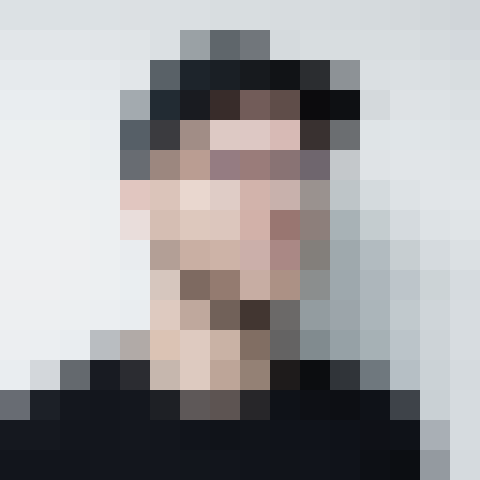
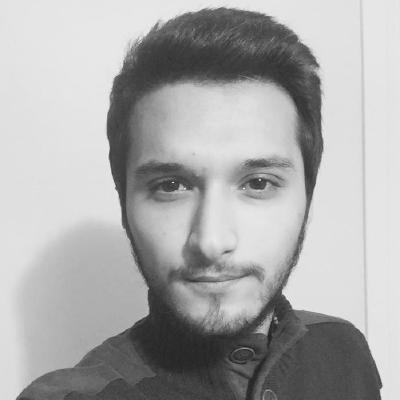
fourth commit

diff --git a/index.html b/index.html
@@ -76,9 +76,9 @@
                   Team
                 </a>
               </li>
-              <li class="nav-item">
+              <li class="nav-item d-none">
                 <a class="nav-link" href="#portfolios">
-                  Works
+                  Portfolio
                 </a>
               </li>
               <li class="nav-item">
@@ -150,7 +150,7 @@
                 <div class="icon">
                   <i class="lni-microphone"></i>
                 </div>
-                <div class="feature-content text-uppercase">
+                <div class="feature-content">
                   <h3>WHAT WE DO?</h3>
                   <p>
                     We are mainly focused on Web and Mobile projects. Also, we
@@ -373,7 +373,7 @@
               <div class="team-img">
                 <img
                   class="img-fluid"
-                  src="assets/img/team/team-01.png"
+                  src="assets/img/team/team-03.jpg"
                   alt=""
                 />
                 <div class="team-overlay">
@@ -488,7 +488,7 @@
     </div>
 
     <!-- Portfolio Section -->
-    <section id="portfolios" class="section-padding">
+    <section id="portfolios" class="section-padding d-none">
       <!-- Container Starts -->
       <div class="container">
         <div class="section-header text-center">
